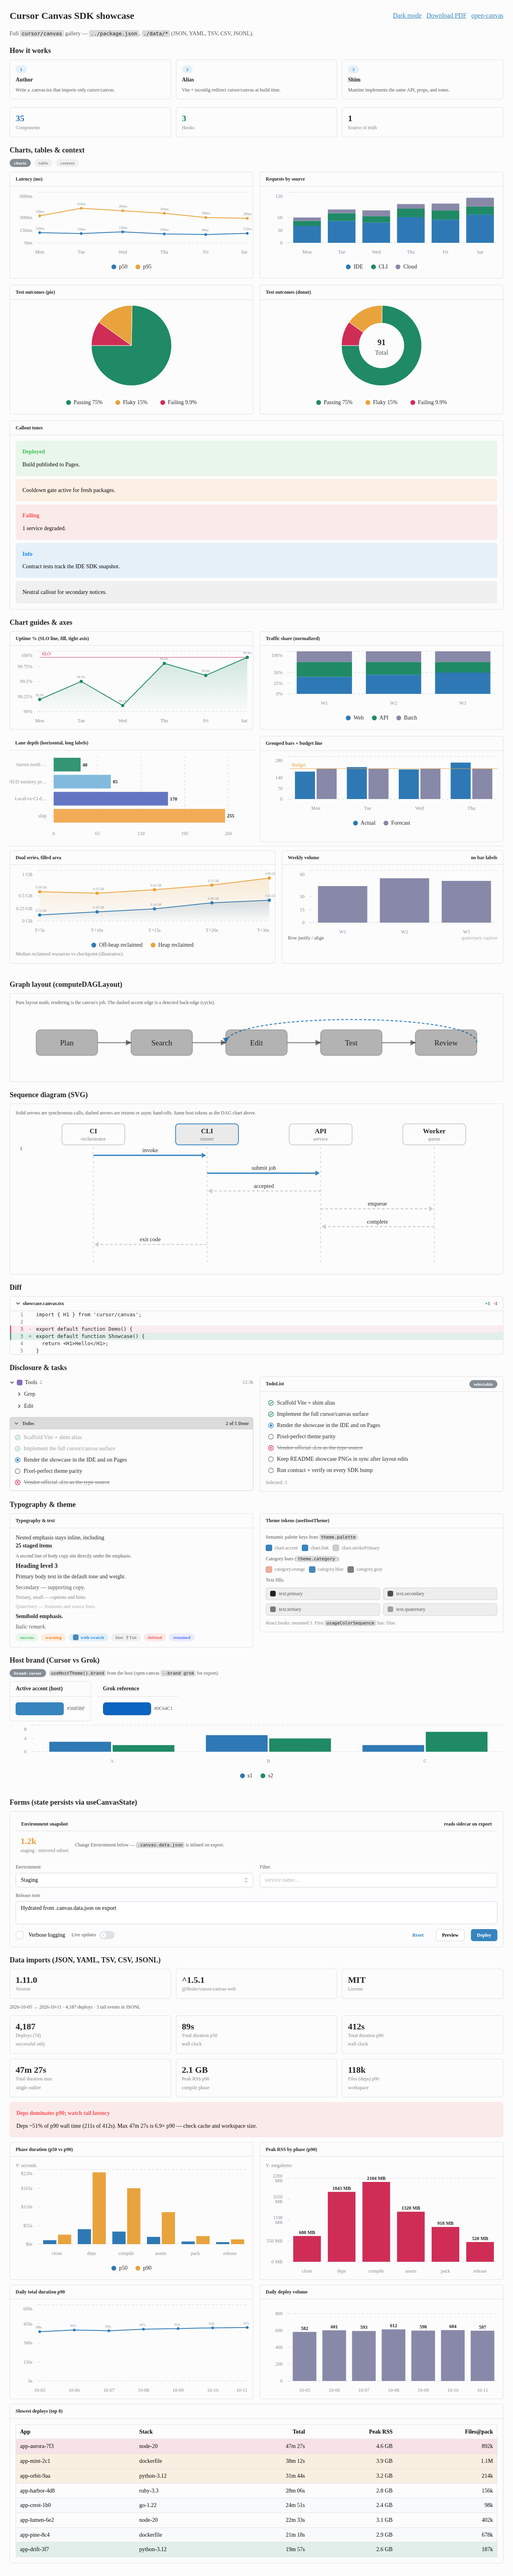
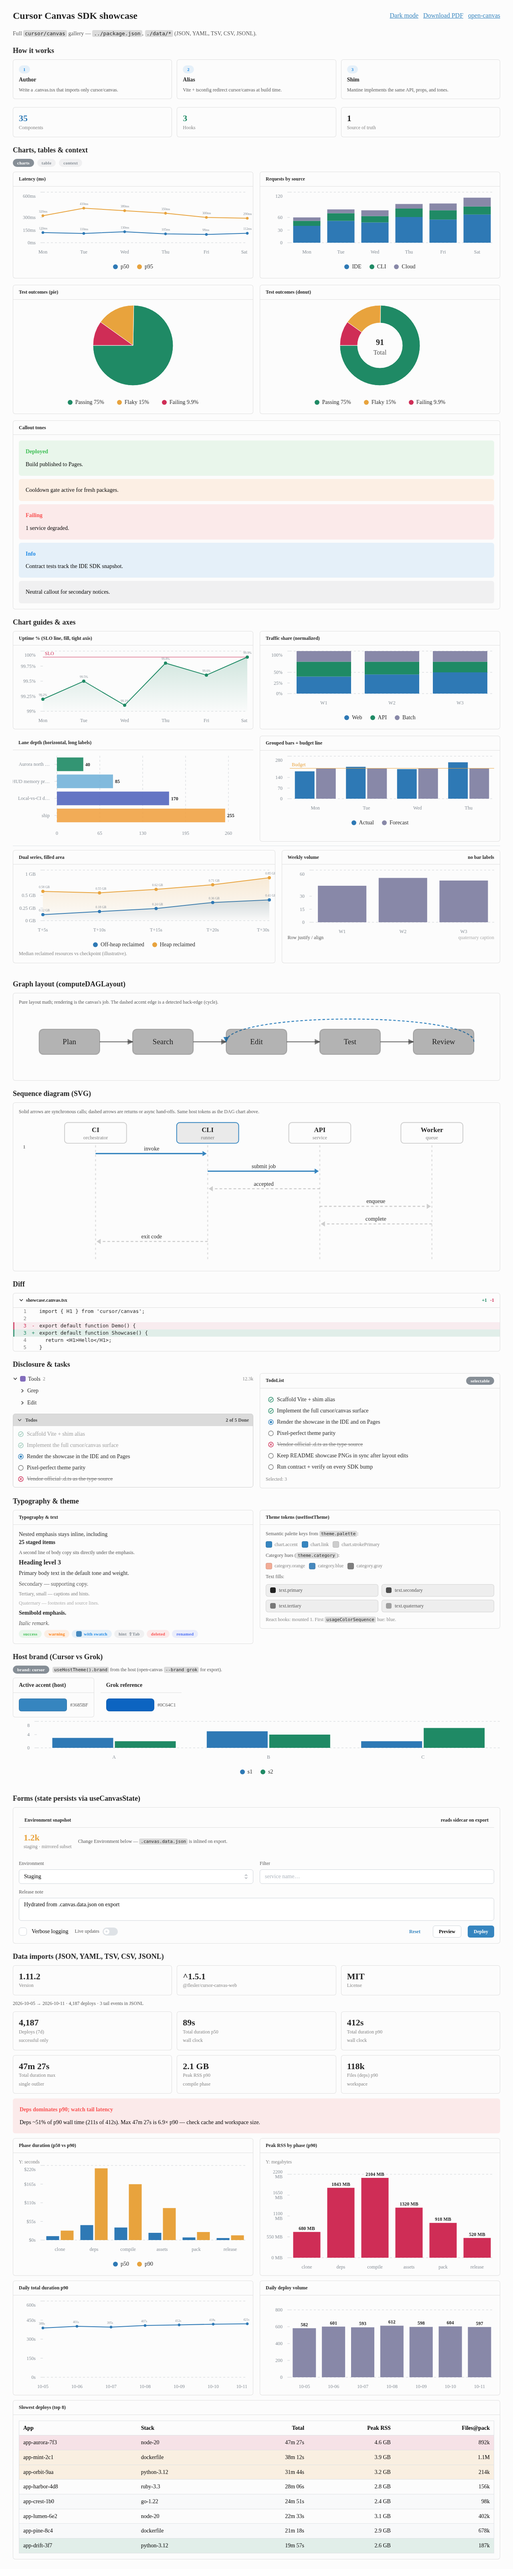
Fix paginated PDF sheet height without double-counting main padding

diff --git a/src/render.test.ts b/src/render.test.ts
@@ -64,6 +64,81 @@ describe('writePdf', () => {
     await page.close()
   })
 
+  function pxToPt(px: number): number {
+    return Math.round((px * 72) / 96)
+  }
+
+  it('uses A4-ratio sheet height for short multi-page canvases', async () => {
+    const widthPx = 1280
+    const defaultSheetPx = Math.round(widthPx * (297 / 210))
+    const breakHtml = '<div style="break-before:page;height:0"></div>'
+    const page = await browser.newPage({ viewport: { width: widthPx, height: 600 } })
+    await page.setContent(`
+      <style>@media print { main { box-decoration-break: clone; } }</style>
+      <body style="margin:0">
+        <main style="padding:24px 32px">
+          <p>P1</p>${breakHtml}<p>P2</p>${breakHtml}<p>P3</p>${breakHtml}
+          <p>P4</p>${breakHtml}<p>P5</p>
+        </main>
+      </body>
+    `)
+    const dir = fs.mkdtempSync(path.join(os.tmpdir(), 'open-canvas-pdf-'))
+    const out = path.join(dir, 'probe.pdf')
+    await writePdf(page, {
+      outDir: dir,
+      stem: 'probe',
+      options: {
+        page: { viewport: { width: widthPx, height: 600 } },
+        screenshot: {},
+        pdf: { printBackground: true },
+      },
+    }, out)
+    const heights = pdfPageMediaBoxHeights(fs.readFileSync(out))
+    expect(pdfPageCount(fs.readFileSync(out))).toBe(5)
+    const targetPt = pxToPt(defaultSheetPx)
+    for (const h of heights) {
+      expect(Math.round(h)).toBe(targetPt)
+    }
+    await page.close()
+  })
+
+  it('does not add full vertical main padding twice on the first segment', async () => {
+    const widthPx = 800
+    const pad = 24
+    const block = 1200
+    const page = await browser.newPage({ viewport: { width: widthPx, height: 600 } })
+    await page.setContent(`
+      <style>@media print { main { box-decoration-break: clone; } }</style>
+      <body style="margin:0">
+        <main style="padding:${pad}px 32px">
+          <div style="height:${block}px">big</div>
+          <div style="break-before:page;height:0"></div>
+          <p>tail</p>
+        </main>
+      </body>
+    `)
+    const dir = fs.mkdtempSync(path.join(os.tmpdir(), 'open-canvas-pdf-'))
+    const out = path.join(dir, 'first-seg.pdf')
+    await writePdf(page, {
+      outDir: dir,
+      stem: 'first-seg',
+      options: {
+        page: { viewport: { width: widthPx, height: 600 } },
+        screenshot: {},
+        pdf: { printBackground: true },
+      },
+    }, out)
+    const heights = pdfPageMediaBoxHeights(fs.readFileSync(out))
+    const sheetPx = block + pad + pad
+    const expectedPt = pxToPt(sheetPx)
+    const doubleCountPt = pxToPt(block + pad + pad + pad)
+    for (const h of heights) {
+      expect(Math.round(h)).toBe(expectedPt)
+      expect(Math.round(h)).not.toBe(doubleCountPt)
+    }
+    await page.close()
+  })
+
   it('paginates when break-before markers exist', async () => {
     const widthPx = 800
     const page = await browser.newPage({ viewport: { width: widthPx, height: 600 } })

diff --git a/src/render.ts b/src/render.ts
@@ -132,19 +132,20 @@ const PDF_SHEET_HEIGHT_RATIO = 297 / 210
 function preparePdfLayout(opts: {
   widthPx: number;
   sheetRatio: number;
-  mainPaddingY: number
+  mainPaddingFallback: number
 }): {
   paginate: boolean;
   scrollHeight: number;
   sheetHeightPx: number
 } {
-  const { widthPx, sheetRatio } = opts
-  let { mainPaddingY } = opts
+  const { widthPx, sheetRatio, mainPaddingFallback } = opts
   const main = document.querySelector('main')
+  let padTop = mainPaddingFallback / 2
+  let padBottom = mainPaddingFallback / 2
   if (main instanceof HTMLElement) {
     const pad = getComputedStyle(main)
-    mainPaddingY =
-      (parseFloat(pad.paddingTop) || 0) + (parseFloat(pad.paddingBottom) || 0)
+    padTop = parseFloat(pad.paddingTop) || 0
+    padBottom = parseFloat(pad.paddingBottom) || 0
   }
   for (const el of document.querySelectorAll<HTMLElement>('[style]')) {
     if (el.style.minHeight.includes('vh')) {
@@ -170,7 +171,6 @@ function preparePdfLayout(opts: {
       break
     }
   }
-  const defaultSheet = Math.round(widthPx * sheetRatio)
   if (!paginate) {
     return { paginate, scrollHeight, sheetHeightPx: scrollHeight }
   }
@@ -194,11 +194,27 @@ function preparePdfLayout(opts: {
   }
   breakTops.sort((a, b) => a - b)
   const bounds = [0, ...breakTops, scrollHeight]
-  let maxSeg = 0
-  for (let i = 0; i < bounds.length - 1; i++) {
-    maxSeg = Math.max(maxSeg, bounds[i + 1] - bounds[i])
+  const pageCount = bounds.length - 1
+  /*
+   * Segment spans are continuous layout between breaks (first span already has
+   * main padding-top; last includes padding-bottom). Clone padding per sheet
+   * (box-decoration-break): first +bottom only, last +top only, middle +both.
+   */
+  let maxPrintPage = 0
+  for (let i = 0; i < pageCount; i++) {
+    const seg = bounds[i + 1] - bounds[i]
+    const isFirst = i === 0
+    const isLast = i === pageCount - 1
+    let extraPad = padTop + padBottom
+    if (isFirst) {
+      extraPad = padBottom
+    } else if (isLast) {
+      extraPad = padTop
+    }
+    maxPrintPage = Math.max(maxPrintPage, seg + extraPad)
   }
-  const sheetHeightPx = Math.max(defaultSheet, maxSeg + mainPaddingY)
+  const defaultSheet = Math.round(widthPx * sheetRatio)
+  const sheetHeightPx = Math.max(defaultSheet, maxPrintPage)
   return { paginate, scrollHeight, sheetHeightPx }
 }
 
@@ -212,7 +228,7 @@ async function writePdf(
   const layout = await page.evaluate(preparePdfLayout, {
     widthPx,
     sheetRatio: PDF_SHEET_HEIGHT_RATIO,
-    mainPaddingY: 48,
+    mainPaddingFallback: 48,
   })
   const pdf = { ...ctx.options.pdf }
   if (!pdf.width) {
